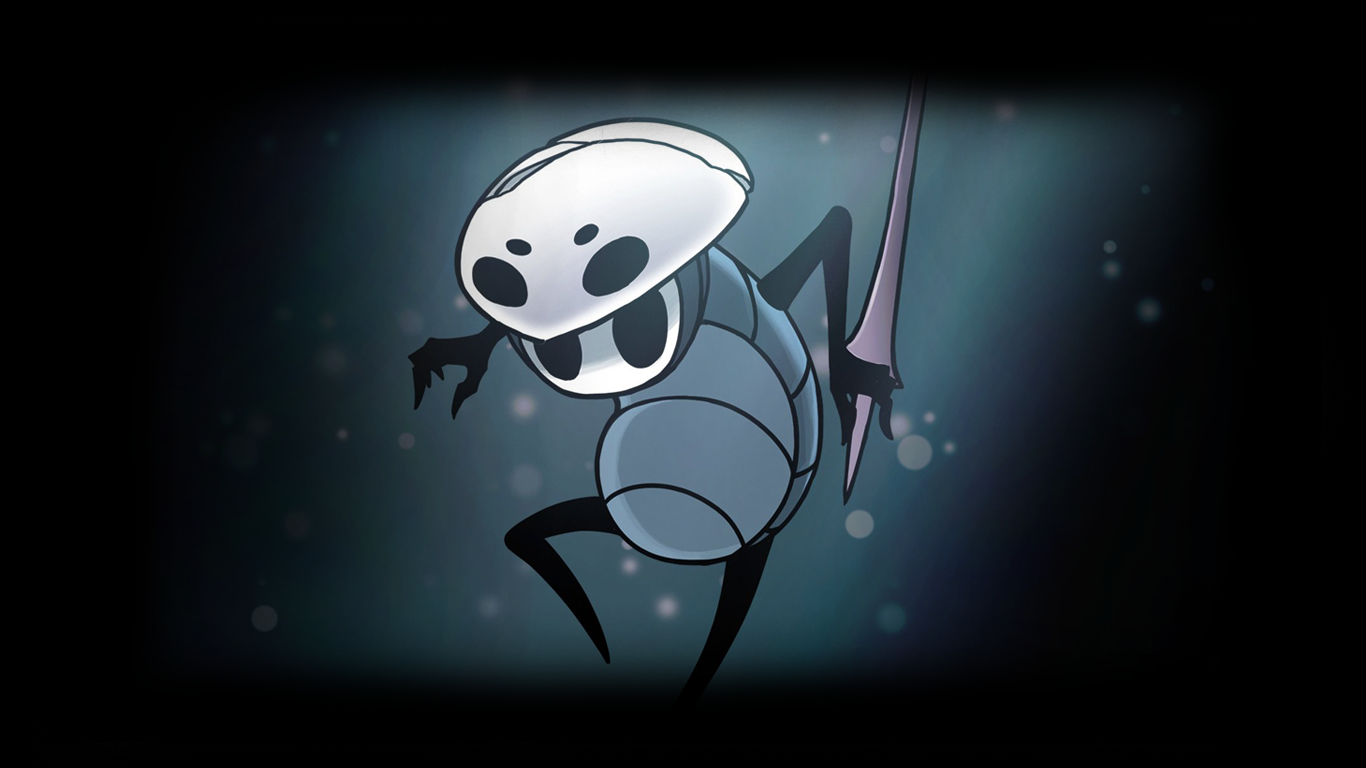
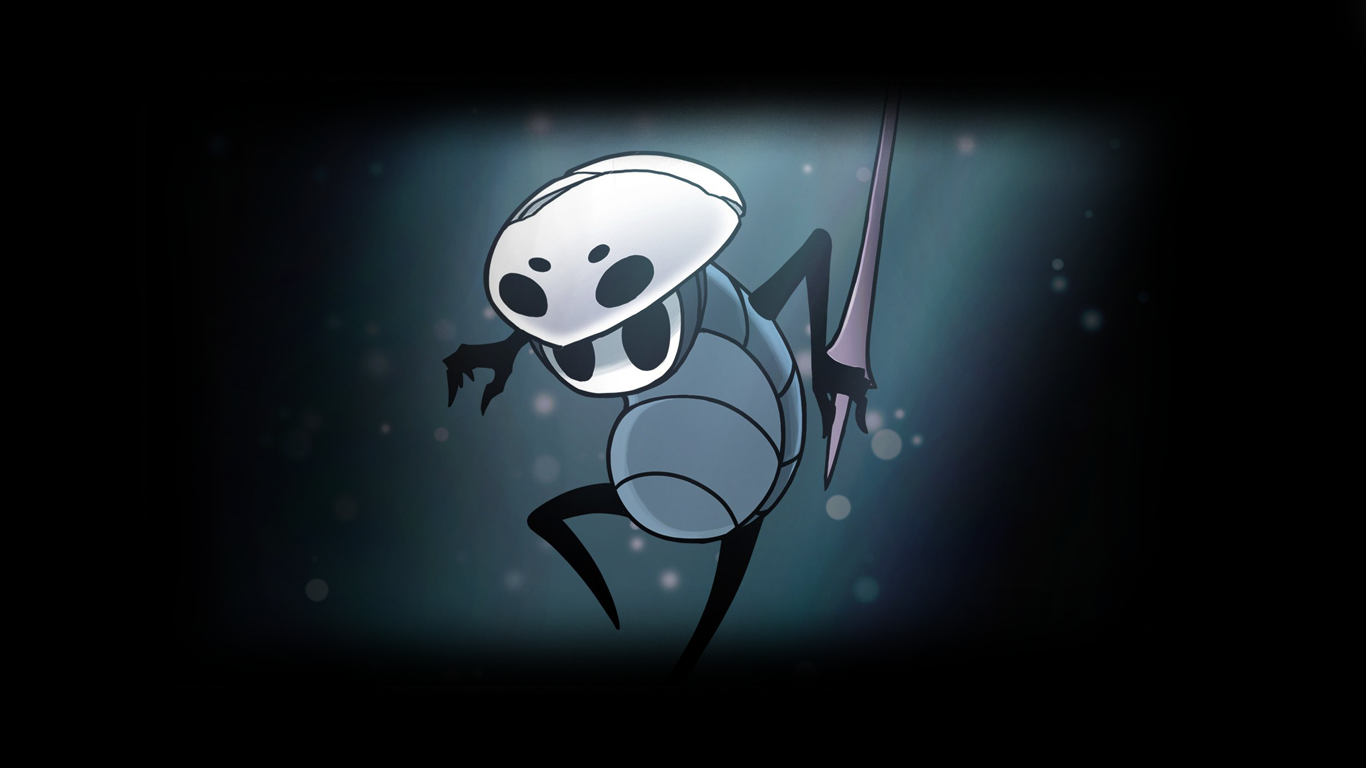
primeiro commit projeto hollow knight

diff --git a/src/css/responsivo.css b/src/css/responsivo.css
@@ -1,4 +1,4 @@
-@media (max-width: 769px) {
+@media (max-width: 1000px) {
   main::after {
     background: linear-gradient(0deg, #000 20%, rgba(0, 0, 0, 0) 65%) no-repeat;
     width: 100vw;
@@ -37,30 +37,34 @@
   }
 }
 
-@media (max-width: 650px) {
-    main .personagem .imagem {
-        height: 500px;
-    }
+@media (max-width: 700px) {
+  main .personagem .imagem {
+    height: 400px;
+  }
 
-    .conteudo .logo {
-        width: 200px;
-        height: 75px;
-    }
+  .conteudo .logo {
+    width: 200px;
+    height: 65px;
+  }
 
-    .conteudo {
-        top: -10%;
-    }
+  .conteudo {
+    top: -30%;
+  }
 
-    .conteudo .nome-personagem {
-        font-size: 24px;
-    }
+  .conteudo .nome-personagem {
+    font-size: 24px;
+  }
 
-    .botoes {
-        padding: 10px;
-    }
+  .botoes {
+    padding: 25px;
+  }
 
-    .botoes .botao img {
-        max-width: 100%;
-        max-height: 45px;
-    }
+  .botoes .botao img {
+    max-width: 100%;
+    max-height: 45px;
+  }
+
+  .botao {
+    margin-bottom: 90px;
+  }
 }

diff --git a/index.html b/index.html
@@ -37,7 +37,7 @@
       <div class="personagem">
         <img
           class="imagem"
-          src="./src/imagens/Hornet-2.png"
+          src="./src/imagens/Hornet.png"
           alt="Personagem Hornet"
         />
         <div class="conteudo">
@@ -74,7 +74,7 @@
       <div class="personagem">
         <img
           class="imagem"
-          src="./src/imagens/Grimm-2.png"
+          src="./src/imagens/Grimm.png"
           alt="Personagem Grimm"
         />
         <div class="conteudo">
@@ -116,12 +116,12 @@
     <ul class="botoes">
       <li>
         <button class="botao">
-          <img src="./src/imagens/Quirrel-icone.png" alt="Quirrel icone" />
+          <img src="./src/imagens//quirrel-icone.png" alt="Quirrel icone" />
         </button>
       </li>
       <li>
         <button class="botao">
-          <img src="./src/imagens/Hornet-icone.png" alt="Hornet icone" />
+          <img src="./src/imagens/hornet-icone.png" alt="Hornet icone" />
         </button>
       </li>
       <li>
